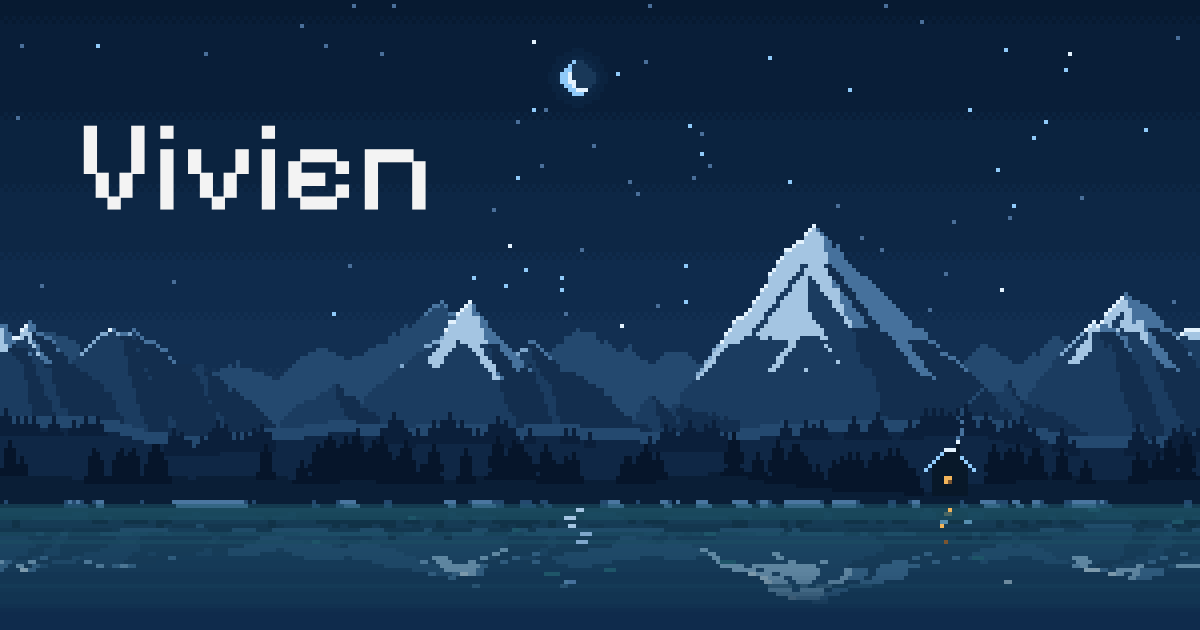
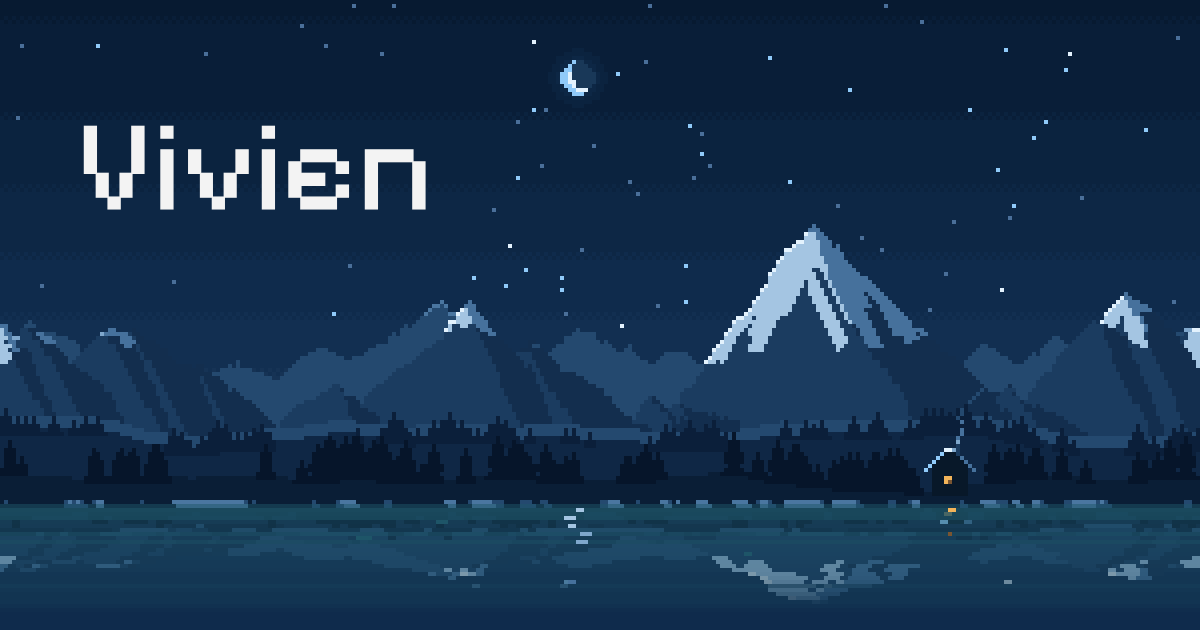
Scene pass: clean snow, moonlit cabin, steadier water
- Fix pack() returning signed values, so colour checks against the
  Uint32 buffers now match (pine moon shadows, flakes passing behind
  pines and the snow cleanup were silently doing nothing)
- Snow cleanup: full flood fill; removes specks of six pixels or fewer
  and small patches that never reach the crest; refills from the
  nearest rock in the row so thick shards clear completely
- Snowline breaks into tongues down the fall line instead of a flat cut;
  couloirs only hang from a real snowcap
- Ribs at a clean 1:2 step, two pixels wide; the light/shade split
  meanders at low frequency instead of notching per column
- Cabin roof lit on the west slope and shaded on the east; stone chimney
  with its cap sitting on it instead of floating
- Lamp reflection as a rippling column of dashes; water glints hold
  their place and fade slowly instead of jumping
- Refresh og.png and DESIGN.md

Claude-Session: https://claude.ai/code/session_01W1WJo8FCiKhhtBsWrrJKbP

diff --git a/scene.js b/scene.js
@@ -66,7 +66,7 @@
   const nFar = valueNoise(7), nMid = valueNoise(19), nNear = valueNoise(41), nRay = valueNoise(73);
   const nRib = valueNoise(88), nCouloir = valueNoise(131), nSnow = valueNoise(57);
   function smooth(a, b, x) { const t = Math.max(0, Math.min(1, (x - a) / (b - a))); return t * t * (3 - 2 * t); }
-  const pack = (c) => (255 << 24) | (c[2] << 16) | (c[1] << 8) | c[0];
+  const pack = (c) => ((255 << 24) | (c[2] << 16) | (c[1] << 8) | c[0]) >>> 0; // unsigned, to match the Uint32Array buffers it is compared against
 
 
   const reduceMotion = window.matchMedia("(prefers-reduced-motion: reduce)");
@@ -209,8 +209,8 @@
     const snowline = (x) => hz * 0.67 + (fbm(nSnow, x * 0.06, 3) - 0.5) * hz * 0.1;
 
     for (let x = 0; x < W; x++) {
-      const jag = (fbm(nMid, x * 0.4 + 7, 2) - 0.5) * 4;
-      const sl = snowline(x);
+      const jag = Math.round((fbm(nMid, x * 0.12 + 7, 2) - 0.5) * 5); // the light/shadow split meanders, no per-column notches
+      const slx = snowline(x);
       for (let y = 0; y < horizon; y++) {
         let c = null;
         if (y >= nearTop[x]) c = C.near;
@@ -218,12 +218,16 @@
           c = C.hill;
         } else if (y >= far.top[x]) {
           const p = far.owner[Math.max(0, Math.min(W - 1, Math.round(x - (y - far.top[x]) * 0.6)))];
-          const lit = x <= p.x + (y - p.y) * 0.4 + jag; // west faces catch the moon, which hangs to the west of the range
+          const lit = x <= p.x + Math.floor((y - p.y) * 0.5) + jag; // west faces catch the moon, which hangs to the west of the range
           const side = x >= p.x ? 1 : -1;
-          // rock ribs run down the fall line; couloirs carry snow below the snowline
-          const along = (x - p.x) - side * (y - p.y) * 0.75;
+          // rock ribs run down the fall line at a clean 1:2 step, two pixels wide, so they read as
+          // rock bands and never as a broken scratch; couloirs carry snow below the snowline
+          const along = Math.floor(((x - p.x) - side * Math.floor((y - p.y) * 0.5)) / 2) * 2;
+          // the cap's lower edge breaks into tongues down the fall line, never a flat cut
+          const sl = slx + (nCouloir(along * 0.21 + p.x * 0.5 + 31) - 0.5) * hz * 0.1;
           const rib = nRib(along * 0.3 + p.x) > 0.8 && y - far.top[x] > 3 && y > p.y + (sl - p.y) * 0.35;
-          const couloir = nCouloir(along * 0.35 + p.x * 0.3) > 0.78 && y < sl + hz * 0.07;
+          // couloirs only hang from a real snowcap: on a low ridge with no cap they read as stray light beams
+          const couloir = p.y < slx - hz * 0.08 && nCouloir(along * 0.35 + p.x * 0.3) > 0.78 && y < sl + hz * 0.06;
           const snowy = (y < sl && !rib) || couloir || (y - far.top[x] < 1 && y < sl + hz * 0.05);
           if (snowy) {
             if (!lit) c = C.snowShade;
@@ -238,6 +242,41 @@
           c = y < hz * 0.62 && y - haze.top[x] < 1 ? C.hazeSnow : C.haze; // a clean snow edge on the highest back peaks
         }
         if (c) base[y * W + x] = pack(c);
+      }
+    }
+
+    // no snow specks or floating shards: a patch of six pixels or fewer is noise, and a small
+    // patch that never reaches the ridge crest hangs in the rock face with nothing holding it,
+    // so either takes the rock colour beside it
+    {
+      const SNOWSET = new Set([C.frost, C.snowLit, C.snowMid, C.snowShade].map(pack));
+      const seen = new Uint8Array(W * horizon);
+      for (let i = 0; i < W * horizon; i++) {
+        if (seen[i] || !SNOWSET.has(base[i])) continue;
+        const comp = [i], stack = [i];
+        let crest = false;
+        seen[i] = 1;
+        while (stack.length) {
+          const j = stack.pop(), jx = j % W;
+          if (Math.floor(j / W) - far.top[jx] < 1) crest = true;
+          for (const n of [jx > 0 ? j - 1 : -1, jx < W - 1 ? j + 1 : -1, j - W, j + W]) {
+            if (n < 0 || n >= W * horizon || seen[n] || !SNOWSET.has(base[n])) continue;
+            seen[n] = 1; comp.push(n); stack.push(n);
+          }
+        }
+        if (comp.length > 6 && (crest || comp.length >= 40)) continue;
+        // each pixel takes the nearest rock along its own row, so a patch several pixels thick
+        // fills right through instead of keeping a core whose neighbours are all snow
+        const fill = comp.map((j) => {
+          const row = j - (j % W);
+          for (let d = 1; d < W; d++) {
+            for (const n of [j - d, j + d]) {
+              if (n >= row && n < row + W && base[n] && !SNOWSET.has(base[n])) return base[n];
+            }
+          }
+          return base[j];
+        });
+        comp.forEach((j, k) => { base[j] = fill[k]; });
       }
     }
 
@@ -288,13 +327,15 @@
     for (let k = 0; k < 5; k++) {
       for (let x = bx - 1 + k; x < bx + 10 - k; x++) set(x, by - 1 - k, C.cabin);
       set(bx - 1 + k, by - 1 - k, C.frost);
-      set(bx + 9 - k, by - 1 - k, C.frost);
+      set(bx + 9 - k, by - 1 - k, C.snowMid); // the east slope turns from the moon
       set(bx - 2 + k, by - k, C.ice);
-      set(bx + 10 - k, by - k, C.ice);
+      set(bx + 10 - k, by - k, C.snowShade);
     }
     set(bx + 4, by - 5, C.frost);
-    for (let y = by - 6; y < by - 2; y++) set(bx + 6, y, C.cabin); // chimney
-    set(bx + 6, by - 7, C.frost);
+    // a stone chimney, a step lighter than the timber so it does not vanish into the pines,
+    // its snow cap sitting on it rather than floating above an unseen stack
+    for (let y = by - 6; y < by - 3; y++) set(bx + 6, y, C.farRock);
+    set(bx + 6, by - 7, C.snowMid);
     set(cabin.wx, cabin.wy, C.lamp); set(cabin.wx + 1, cabin.wy, C.lamp);
     set(cabin.wx, cabin.wy + 1, C.lamp); set(cabin.wx + 1, cabin.wy + 1, C.ember);
 
@@ -404,8 +445,9 @@
         const r = Math.round((s & 255) * fade + wr), g = Math.round(((s >> 8) & 255) * fade + wg), b = Math.round(((s >> 16) & 255) * fade + wb);
         buf[row + x] = (255 << 24) | (b << 16) | (g << 8) | r;
       }
-      const g = Math.floor(nRay(y * 3.1 + t * 0.8) * W * 1.3);
-      if (g < W && d < 0.55) for (let k = 0; k < 2 + (y % 3); k++) if (g + k < W) buf[y * W + g + k] = pack(C.fjord);
+      // a glint: each row has its own fixed spot that brightens and fades slowly, never jumping about
+      const g = Math.floor(nRay(y * 3.1 + 500) * W * 1.3);
+      if (g < W && d < 0.55 && nRay(y * 1.9 + t * 0.5) > 0.62) for (let k = 0; k < 2 + (y % 3); k++) if (g + k < W) buf[y * W + g + k] = pack(C.fjord);
     }
 
     // the moon's glade: thin broken dashes of cool light on the water below it
@@ -425,11 +467,15 @@
     if (cabin) {
       // the lamp gutters now and then: one pane dips to ember for a frame or two
       if (nRay(t * 1.9 + 400) > 0.93) buf[cabin.wy * W + cabin.wx + (Math.floor(t * 3) & 1)] = pack(C.ember);
-      for (let y = horizon + 1; y < Math.min(H, horizon + Math.round(depthRows * 0.3)); y += 2) {
-        if (Math.sin(y * 1.7 + t * 3) <= -0.2) continue;
-        const x = cabin.wx + Math.round(Math.sin(y * 0.9 + t * 1.8) * 1.2);
-        const c = (y - horizon) < depthRows * 0.25 ? C.lamp : C.ember;
-        if (x >= 0 && x + 1 < W) { buf[y * W + x] = pack(c); if (y % 4 === 1) buf[y * W + x + 1] = pack(C.ember); }
+      // a column of short warm dashes under the window, rippling with the water rows they sit on;
+      // two pixels wide like the window near the shore, narrowing and cooling to ember with depth
+      const rows = Math.round(depthRows * 0.3);
+      for (let y = horizon + 1; y < Math.min(H, horizon + rows); y += 2) {
+        const d = (y - horizon) / rows;
+        if (nRay(y * 2.1 + t * 0.7 + 60) < 0.2 + d * 0.5) continue;
+        const x = cabin.wx + Math.round(Math.sin((y - horizon) * 0.9 + t * 1.8) * (0.6 + ((y - horizon) / depthRows) * 2.2));
+        const c = pack(d < 0.5 ? C.lamp : C.ember);
+        if (x >= 0 && x + 1 < W) { buf[y * W + x] = c; if (d < 0.4) buf[y * W + x + 1] = c; }
       }
       const [cx, cy] = cabin.chimney;
       for (let k = 1; k < 14; k++) {

diff --git a/index.html b/index.html
@@ -12,7 +12,7 @@
   <meta property="og:site_name" content="Vivien">
   <meta property="og:description" content="Mechanical engineer, formerly a musician and programmer.">
   <meta property="og:url" content="https://meowzerskittycat.github.io/">
-  <meta property="og:image" content="https://meowzerskittycat.github.io/og.png?v=c76f21b2">
+  <meta property="og:image" content="https://meowzerskittycat.github.io/og.png?v=75929a98">
   <meta property="og:image:type" content="image/png">
   <meta property="og:image:width" content="1200">
   <meta property="og:image:height" content="630">

diff --git a/DESIGN.md b/DESIGN.md
@@ -122,7 +122,7 @@ A cold, low-light palette of fjord blues on deep navy, lit by ice-blue starlight
 - **Banked Ember** (ember): the dimmed lamplight; the window's shaded pixel and the far end of the lamp's reflection. Scene-only.
 
 ### Tertiary
-- **Ice** (ice): in the scene, starlight, distant snowflakes on the shore, the crescent moon's limb, the lit edge under the cabin's roof snow. In the text layer, the fill of the 9x9 pixel glyphs, the square marker before each band name, and the bars of the level meter.
+- **Ice** (ice): in the scene, starlight, distant snowflakes on the shore, the crescent moon's limb, the lit west edge under the cabin's roof snow. In the text layer, the fill of the 9x9 pixel glyphs, the square marker before each band name, and the bars of the level meter.
 - **Frost** (frost): the brightest snow crests, roof snow, the moon's face, near snowflakes on the shore, the brightest stars, the top cap pixel of each meter bar, the shore's snow edge, and the text selection background.
 
 ### Neutral
@@ -195,10 +195,10 @@ Square and hard-edged throughout (`rounded.none`). Both canvases render with `im
 The page has no buttons, inputs, navigation, or cards, by product decision (no links). The recurring pieces are scene, type, the ledger, and pixel marks.
 
 ### Pixel Night Scene (signature)
-- **What:** a full-bleed canvas in the hero, drawn procedurally from fixed seeds so every visit shows the same place: stars, a crescent moon (its dark disc faintly visible by earthshine, inside a two-ring halo), a hazy back range with a clean one-pixel snow edge on its highest peaks, an alpine range with one tall horn (lit on its west faces, toward the moon), shouldered peaks, an uneven snowline, rock ribs and snow couloirs, forested foothills edged with small distant spruce (tapering spires, close-set where the forest is dense, so the crest is a serrated forest edge), valley mist where the range's foot meets the foothills (a clean solid haze band, so the planes part), a pine shore with a faint broken snow rim along the waterline, one cabin with roof snow, a lit window and a chimney, and the reflecting fjord: a mirror of the whole range, its rows folded tighter on wide screens (where the fjord is shallow) so the peaks and their snow still reach the water, fading into the page colour by the hero's foot. The sky is clear: no snow falls in the hero, so nothing crosses the name.
+- **What:** a full-bleed canvas in the hero, drawn procedurally from fixed seeds so every visit shows the same place: stars, a crescent moon (its dark disc faintly visible by earthshine, inside a two-ring halo), a hazy back range with a clean one-pixel snow edge on its highest peaks, an alpine range with one tall horn (lit on its west faces, toward the moon), shouldered peaks, an uneven snowline whose lower edge breaks into tongues down the fall line (never a flat cut), rock ribs two pixels wide at a clean 1:2 step, and snow couloirs that only hang from a real snowcap, forested foothills edged with small distant spruce (tapering spires, close-set where the forest is dense, so the crest is a serrated forest edge), valley mist where the range's foot meets the foothills (a clean solid haze band, so the planes part), a pine shore with a faint broken snow rim along the waterline, one cabin with roof snow (lit on the west slope, shaded on the east), a lit window and a stone chimney a step lighter than the timber with its snow cap sitting on it, and the reflecting fjord: a mirror of the whole range, its rows folded tighter on wide screens (where the fjord is shallow) so the peaks and their snow still reach the water, fading into the page colour by the hero's foot. The sky is clear: no snow falls in the hero, so nothing crosses the name.
 - **Rendering:** low-resolution buffer (about 320 art pixels across on desktop) upscaled by an exact whole number (the canvas element is sized to W x scale, overhanging its box by under one art pixel), so every art pixel is the same size; the art scale is published to CSS as `--scene-px` (and as `--ui-px`, capped at 4px, for the icons, meter, band markers and row rules so they stay in proportion to the text), and the nameplate's padding is rounded to it so the name's pixels sit on the art's. Per frame, the sky's colours are precomputed per row, so each frame is little more than copying rows and the water.
 - **Stars:** three tiers: mostly dim, some ice, a few frost, and a rare frost star with a cross of dim light. They gather in a soft diagonal drift and thin toward the horizon, never touch each other, and keep two pixels clear of the terrain and the moon's halo; never in or right beside the name's letters, where a lone pixel would read as a flaw in the type. A twinkle dims a star one step; it never blinks out.
-- **Motion:** star twinkle, chimney smoke, water ripple, a short flickering lamp reflection, a cabin lamp that gutters one pane to ember for about a fifth of a second, roughly once every eight seconds, and the moon's glade (thin dashes that pale from lit to shaded snow with depth, broken across the water beneath the moon, never a solid column), stepped at 10 frames a second. The water fades fully into the page colour before the hero's edge, with no dither stripe. The shore canvas at the page foot keeps the snow falling at two depths, far flakes passing behind the pines, and runs only while it is on screen. It pauses when offscreen or the tab is hidden; with reduced motion it renders one still frame.
+- **Motion:** star twinkle, chimney smoke, water ripple, a short column of lamp dashes under the window that ripples with the water rows and cools from lamp to ember with depth, ice glints that hold their place on the water and fade in and out slowly, a cabin lamp that gutters one pane to ember for about a fifth of a second, roughly once every eight seconds, and the moon's glade (thin dashes that pale from lit to shaded snow with depth, broken across the water beneath the moon, never a solid column), stepped at 10 frames a second. The water fades fully into the page colour before the hero's edge, with no dither stripe. The shore canvas at the page foot keeps the snow falling at two depths, far flakes passing behind the pines, and runs only while it is on screen. It pauses when offscreen or the tab is hidden; with reduced motion it renders one still frame.
 - **Arrival:** when motion is welcome, scene.js adds `.reveal` to the root: the name wipes in left to right in 6 whole steps and the cue follows. The ledger is never held back, so previews, print and full-page captures always show it. Without the class nothing is hidden.
 - **Share preview:** `og.png`, a 1200x630 capture of the hero at rest, is the Open Graph and large Twitter card image. It is captured at a 1280px viewport (the 4px grid, so the name is large and every pixel even), at the reduced-motion still frame, without the scroll cue. After every visual change run `node tools/og.js`: it rewrites og.png and sets the `?v=` query on `og:image` to the image's hash, so platforms that cache previews by URL fetch the new one.
 - **Favicon:** `favicon.svg`, a 16x16 pixel peak (lit left flank in shaded snow, right flank in ridge, a stepped asymmetric snow cap) under a crescent moon and three stars, on night; `apple-touch-icon.png` is the same art at 11x on 180px.
@@ -239,6 +239,7 @@ The page has no buttons, inputs, navigation, or cards, by product decision (no l
 - **Do** keep layout left-aligned inside the fluid gutter, with generous viewport-scaled vertical space; add new facts as ledger rows on the shared label column.
 - **Do** keep motion slow and stepped (10fps for the scene, `steps()` timing for CSS), pause it offscreen, and hold it still for reduced-motion users.
 - **Do** draw rules as rows of square pixel dots in ridge blue.
+- **Do** keep the snow free of orphans: a snow patch of six pixels or fewer, or a small patch that never reaches the ridge crest, is noise and takes the rock colour beside it.
 - **Do** light the terrain from the moon's side: lit faces and the pines' shadows agree with where the moon hangs. The pines stay clean dark silhouettes, with no snow or rim pixels on their tiers, which read as speckle in dense stands.
 
 ### Don't:
